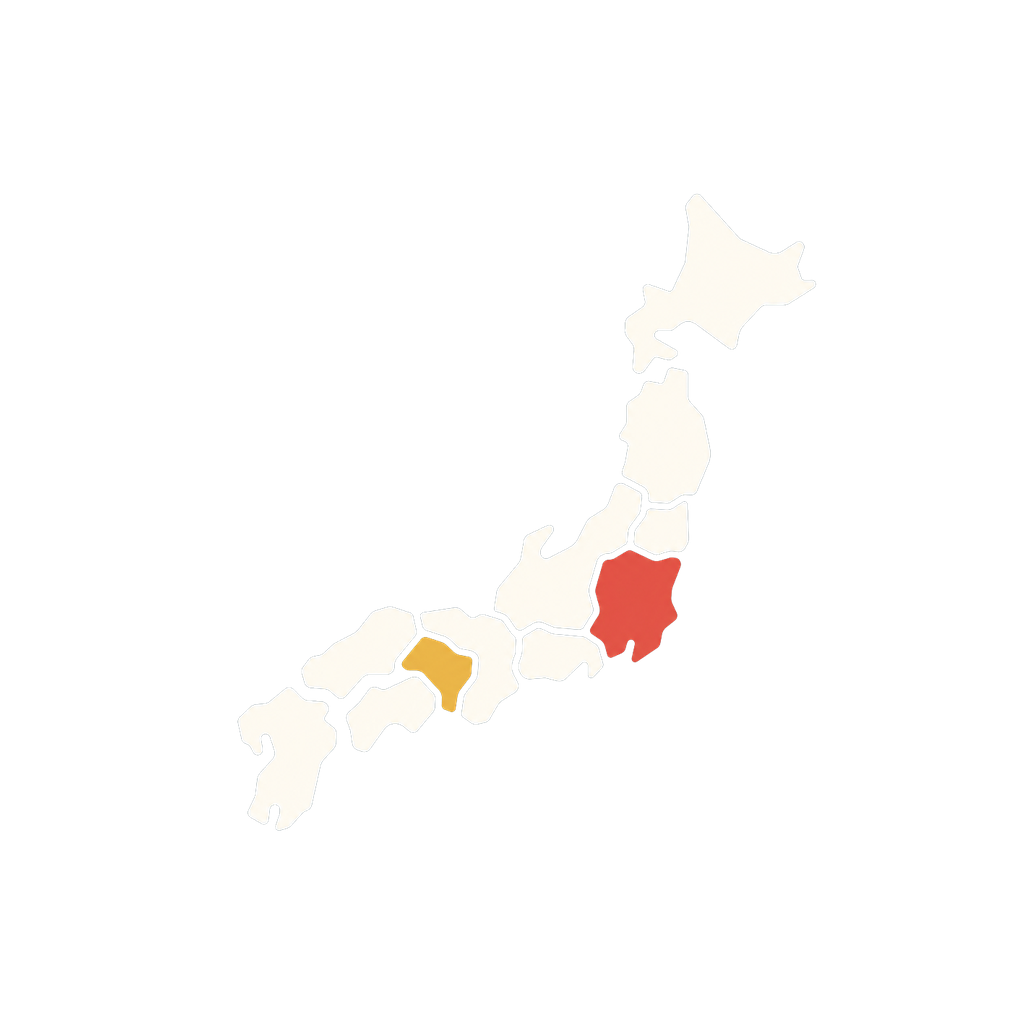
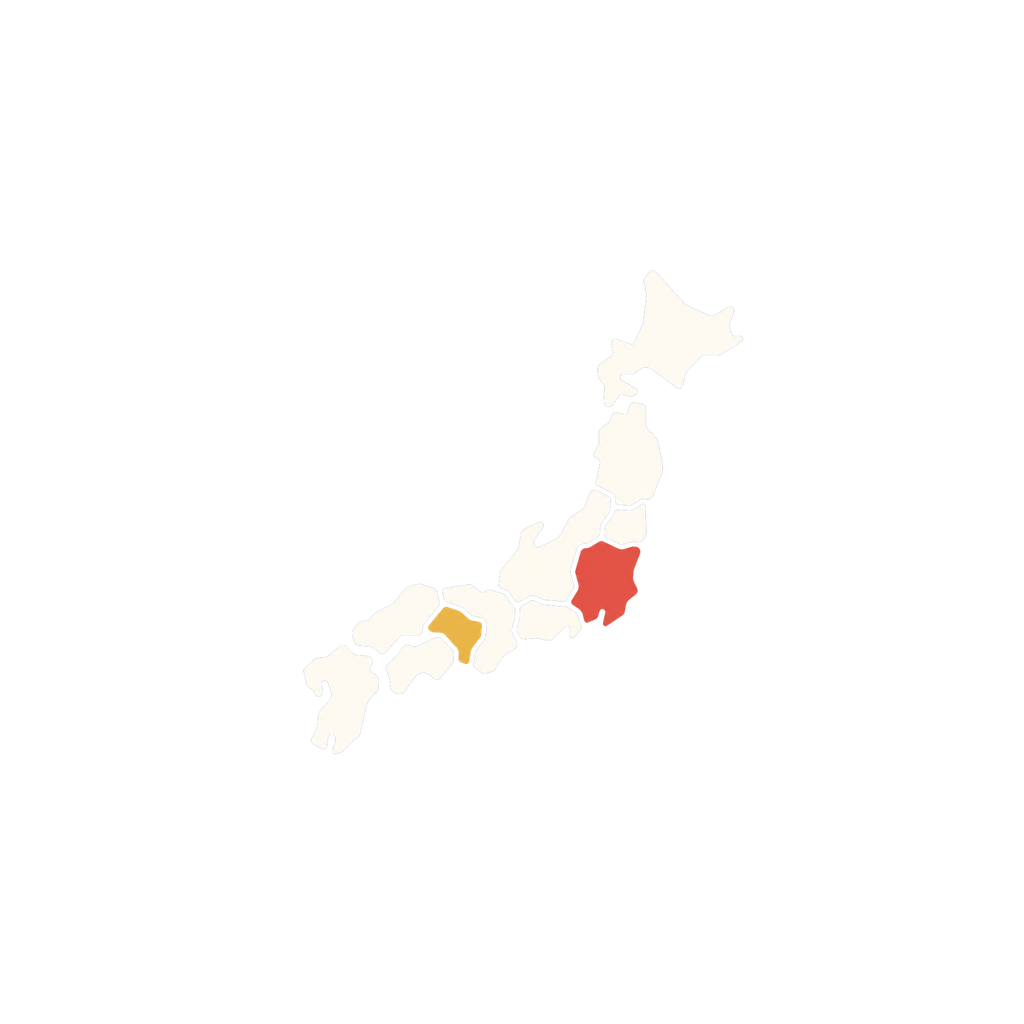
fix android ui

Changed region(s): [[0.5625, 0.5312, 0.6875, 0.6562], [0.375, 0.5938, 0.4688, 0.6875]]

diff --git a/src/screens/settings-screen.tsx b/src/screens/settings-screen.tsx
@@ -100,12 +100,15 @@ function ReadySettingsScreen() {
             value={nameValue}
             onChangeText={setDisplayName}
             placeholder={t(state.locale, 'optionalName')}
+            placeholderTextColor={theme.secondaryText}
             maxLength={40}
             autoCapitalize="words"
+            textStyle={{ color: theme.text, fontSize: 16, lineHeight: 20 }}
             style={{
               width: '100%',
               height: 48,
               paddingHorizontal: 14,
+              paddingVertical: 13,
               backgroundColor: theme.surface,
               borderColor: theme.border,
               borderWidth: 1,
